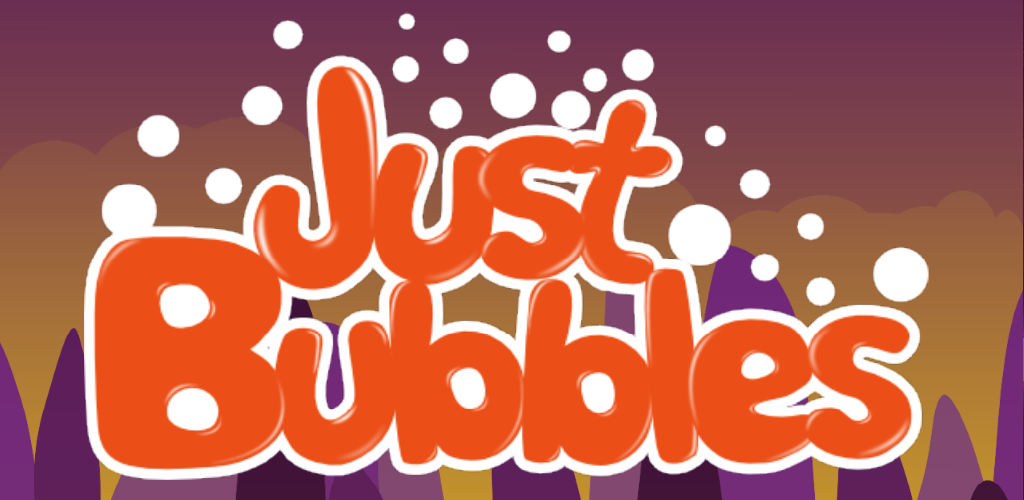
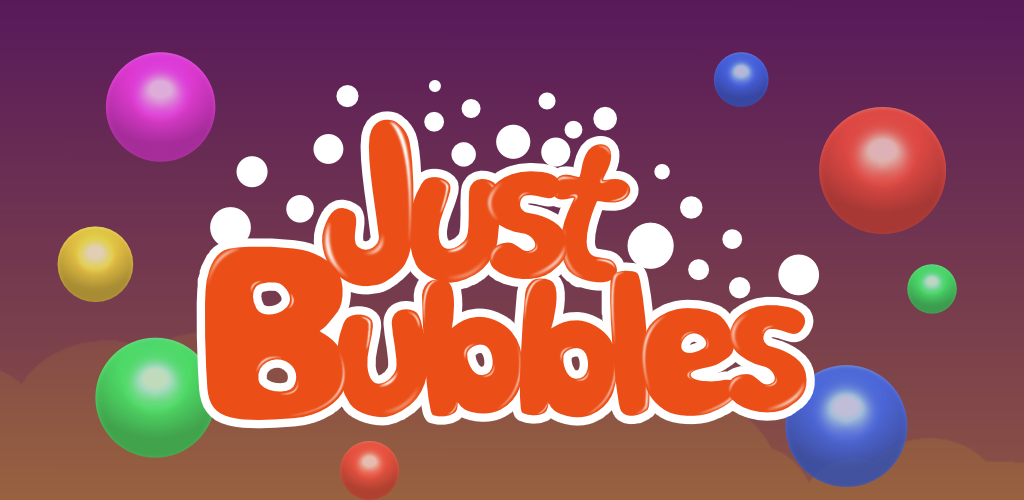
Update just bubbles

diff --git a/content/post/just-bubbles.md b/content/post/just-bubbles.md
@@ -1,20 +1,27 @@
 ---
 title: Just Bubbles
 date: 2022-06-18
-author: Derme
+author: Derme, Eversonian
 cover: img/posts/bubbles_promo_graphic.png
-description: When you just want to shoot bubbles
+description: Aim. Bubble. Pop.
 ---
 
-Completely free with no ads, no micro-transactions, and no waiting for energy to recharge. Just Bubbles is a premium app so you can keep playing without interruption.
+Just Bubbles is an arcade style fidget game that asks nothing of you but to have fun. We felt that the bubble shooters out there were cluttered and strangely expensive. Some even required you to watch ads just to keep playing. We set out to make a clean and simple game with no ads, no micro-transactions, and no subscriptions.
 
-**FEATURES:**
-- Free
+We chose a colourful but relaxed palette to bring a sense of lighthearted fun. The bubbles are vibrant but not glaring, with a subtle transparency to mute the brightness and be cohesive with the background. We made the background a mystical range of silhouetted mountains blazed in an evening sunset. And so we ask, who is this magician shooting down the bubbles in the sky?
+
+## FEATURES:
+- Unique drag to aim system
+- Bubbles will shuffle to keep you on your toes
+- Android and iOS support
+- Free, we mean it
 - Zero in-app purchases
-- Ad-free
+- No Ads
 
 Thank you for your support! Let us know what you think:
 
-**DOWNLOAD:**
+## DOWNLOAD:
 
-Coming later in 2022
+Coming 26th November 2022
+
+[![Download on Google Play](/img/posts/en_google_play_download.png)](https://play.google.com/store/apps/details?id=com.frostcube.justbubbles)
